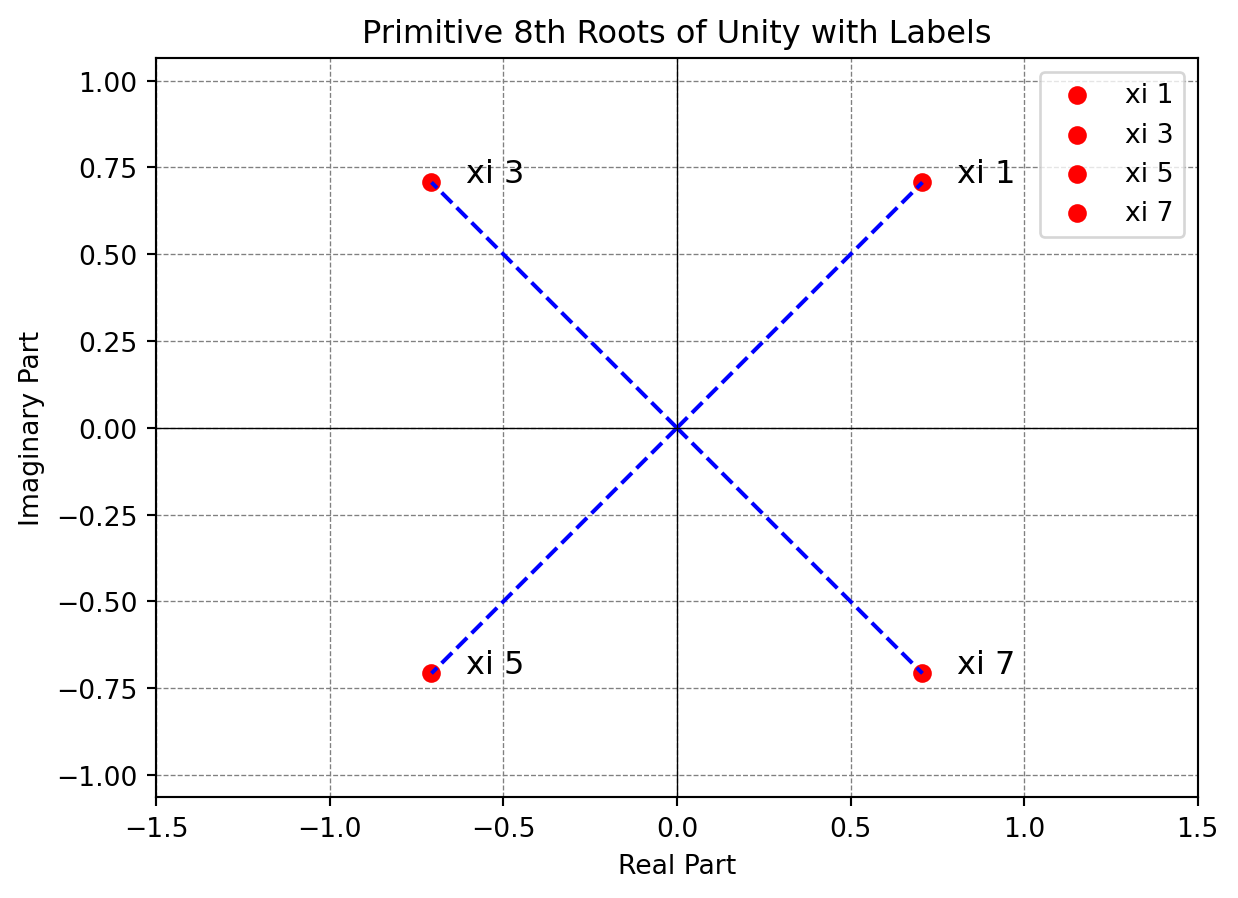
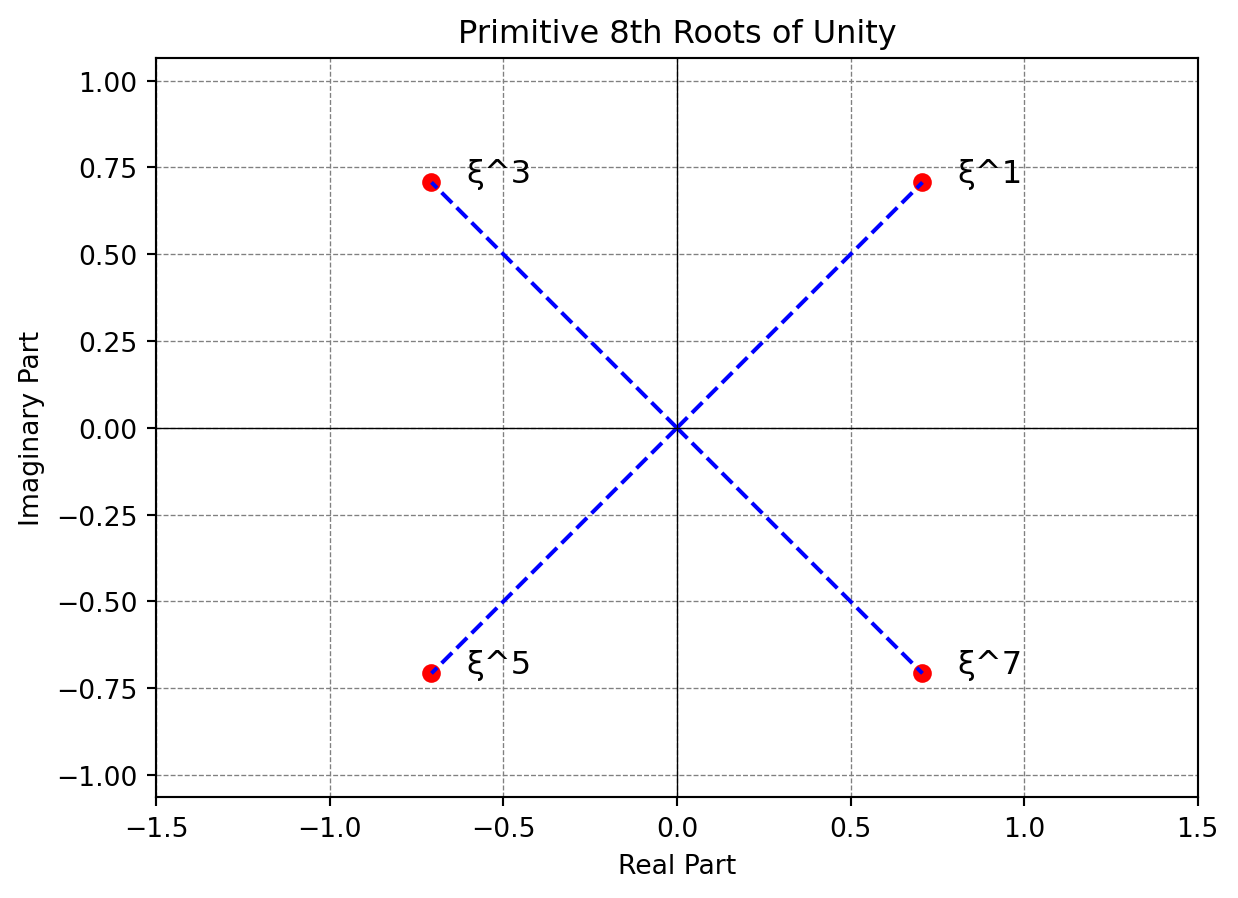
Added more to encoding

diff --git a/docs/posts/ckks/index.html b/docs/posts/ckks/index.html
@@ -194,11 +194,18 @@ pre > code.sourceCode > span > a:first-child::before { text-decoration: underlin
 <li><span class="math inline">\(\lfloor x \rceil\)</span> represents the rounding of the real number x to the closest integer</li>
 </ul>
 </section>
+<section id="parameters" class="level2">
+<h2 class="anchored" data-anchor-id="parameters">Parameters</h2>
+<p><span class="math inline">\(\Delta\)</span> is the scaling factor</p>
+</section>
 <section id="encoding" class="level2">
 <h2 class="anchored" data-anchor-id="encoding">Encoding</h2>
 <p>This scheme operates allows us to encode a vector, <span class="math inline">\(\mathbb{C}^{N/2}\)</span>, into the ciphertext space, <span class="math inline">\(\mathcal{R}_q = (\mathbb{Z}/q\mathbb{Z})[X]/(X^N +1)\)</span> using a ring isomorphism and cannoncial embedding map.</p>
-<p>A cyclotomic polynomial is a polynomial with integer coefficients whose roots are all primitive. An example would be the 4th cyclotomic polynomial or <span class="math inline">\(\phi_4(x) = x^2 + 1\)</span>. One important property of cyclotomic polynomials is that if N is a power of two, then the polynomial is equal to <span class="math inline">\(x^{N/2} + 1\)</span>. More information about these polynomials can be found here on <a href="https://en.wikipedia.org/wiki/Cyclotomic_polynomial">Wikipedia</a></p>
-<p>For any cyclotomic polynomial, <span class="math inline">\(a\)</span>, we can say that <span class="math inline">\(m(\xi^j) = m(\overline{\xi^{-j}})\)</span></p>
+<p>A cyclotomic polynomial is a polynomial with integer coefficients whose roots are all primitive. An example would be the 4th cyclotomic polynomial or <span class="math inline">\(\phi_4(x) = x^2 + 1\)</span>. One important property of cyclotomic polynomials is that if N is a power of two, then the polynomial is equal to <span class="math inline">\(x^{N/2} + 1\)</span>.</p>
+<!-- ADD MORE ABOUT WHY POWERS OF 2 ARE GOOD -->
+<p><a href="https://web.eecs.umich.edu/~cpeikert/pubs/toolkit.pdf">A Toolkit for Ring-LWE Cryptography</a></p>
+<p>More information about these polynomials can be found here on <a href="https://en.wikipedia.org/wiki/Cyclotomic_polynomial">Wikipedia</a></p>
+<p>For any cyclotomic polynomial, <span class="math inline">\(a\)</span>, we can say that <span class="math inline">\(a(\xi^j) = a(\overline{\xi^{-j}})\)</span></p>
 <div class="cell" data-execution_count="1">
 <details>
 <summary>Code</summary>
@@ -215,11 +222,10 @@ pre > code.sourceCode > span > a:first-child::before { text-decoration: underlin
 <span id="cb1-11"><a href="#cb1-11" aria-hidden="true" tabindex="-1"></a></span>
 <span id="cb1-12"><a href="#cb1-12" aria-hidden="true" tabindex="-1"></a>    <span class="cf">return</span> np.array(roots)</span>
 <span id="cb1-13"><a href="#cb1-13" aria-hidden="true" tabindex="-1"></a></span>
-<span id="cb1-14"><a href="#cb1-14" aria-hidden="true" tabindex="-1"></a><span class="co">#print()</span></span>
-<span id="cb1-15"><a href="#cb1-15" aria-hidden="true" tabindex="-1"></a>eigth_prim_roots <span class="op">=</span> primitive_nth_roots_of_unity(<span class="dv">8</span>)</span>
-<span id="cb1-16"><a href="#cb1-16" aria-hidden="true" tabindex="-1"></a></span>
-<span id="cb1-17"><a href="#cb1-17" aria-hidden="true" tabindex="-1"></a><span class="cf">for</span> i, r <span class="kw">in</span> <span class="bu">enumerate</span>(eigth_prim_roots):</span>
-<span id="cb1-18"><a href="#cb1-18" aria-hidden="true" tabindex="-1"></a>    <span class="bu">print</span>(<span class="ss">f"Root #</span><span class="sc">{</span>i<span class="op">+</span><span class="dv">1</span><span class="sc">}</span><span class="ss">: </span><span class="sc">{</span>r<span class="sc">}</span><span class="ch">\n</span><span class="ss">Conjugate: </span><span class="sc">{</span>np<span class="sc">.</span>conjugate(r)<span class="sc">}</span><span class="ch">\n</span><span class="ss">"</span>)</span></code><button title="Copy to Clipboard" class="code-copy-button"><i class="bi"></i></button></pre></div>
+<span id="cb1-14"><a href="#cb1-14" aria-hidden="true" tabindex="-1"></a>eigth_prim_roots <span class="op">=</span> primitive_nth_roots_of_unity(<span class="dv">8</span>)</span>
+<span id="cb1-15"><a href="#cb1-15" aria-hidden="true" tabindex="-1"></a></span>
+<span id="cb1-16"><a href="#cb1-16" aria-hidden="true" tabindex="-1"></a><span class="cf">for</span> i, r <span class="kw">in</span> <span class="bu">enumerate</span>(eigth_prim_roots):</span>
+<span id="cb1-17"><a href="#cb1-17" aria-hidden="true" tabindex="-1"></a>    <span class="bu">print</span>(<span class="ss">f"Root #</span><span class="sc">{</span>i<span class="op">+</span><span class="dv">1</span><span class="sc">}</span><span class="ss">: </span><span class="sc">{</span>r<span class="sc">}</span><span class="ch">\n</span><span class="ss">Conjugate: </span><span class="sc">{</span>np<span class="sc">.</span>conjugate(r)<span class="sc">}</span><span class="ch">\n</span><span class="ss">"</span>)</span></code><button title="Copy to Clipboard" class="code-copy-button"><i class="bi"></i></button></pre></div>
 </details>
 <div class="cell-output cell-output-stdout">
 <pre><code>Root #1: (0.7071067811865476+0.7071067811865475j)
@@ -243,58 +249,69 @@ Conjugate: (0.7071067811865474+0.7071067811865477j)
 <div class="sourceCode cell-code" id="cb3"><pre class="sourceCode python code-with-copy"><code class="sourceCode python"><span id="cb3-1"><a href="#cb3-1" aria-hidden="true" tabindex="-1"></a><span class="im">import</span> numpy <span class="im">as</span> np</span>
 <span id="cb3-2"><a href="#cb3-2" aria-hidden="true" tabindex="-1"></a><span class="im">import</span> matplotlib.pyplot <span class="im">as</span> plt</span>
 <span id="cb3-3"><a href="#cb3-3" aria-hidden="true" tabindex="-1"></a></span>
-<span id="cb3-4"><a href="#cb3-4" aria-hidden="true" tabindex="-1"></a><span class="co"># Number of primitive roots of unity</span></span>
-<span id="cb3-5"><a href="#cb3-5" aria-hidden="true" tabindex="-1"></a>n <span class="op">=</span> <span class="dv">8</span></span>
-<span id="cb3-6"><a href="#cb3-6" aria-hidden="true" tabindex="-1"></a></span>
-<span id="cb3-7"><a href="#cb3-7" aria-hidden="true" tabindex="-1"></a><span class="co"># Calculate the primitive 8th roots of unity</span></span>
-<span id="cb3-8"><a href="#cb3-8" aria-hidden="true" tabindex="-1"></a>roots <span class="op">=</span> [np.exp(<span class="ot">2j</span> <span class="op">*</span> np.pi <span class="op">*</span> k <span class="op">/</span> n) <span class="cf">for</span> k <span class="kw">in</span> <span class="bu">range</span>(n) <span class="cf">if</span> np.gcd(k, n) <span class="op">==</span> <span class="dv">1</span>]</span>
-<span id="cb3-9"><a href="#cb3-9" aria-hidden="true" tabindex="-1"></a></span>
-<span id="cb3-10"><a href="#cb3-10" aria-hidden="true" tabindex="-1"></a><span class="co"># Separate real and imaginary parts</span></span>
-<span id="cb3-11"><a href="#cb3-11" aria-hidden="true" tabindex="-1"></a>real_parts <span class="op">=</span> [root.real <span class="cf">for</span> root <span class="kw">in</span> roots]</span>
-<span id="cb3-12"><a href="#cb3-12" aria-hidden="true" tabindex="-1"></a>imaginary_parts <span class="op">=</span> [root.imag <span class="cf">for</span> root <span class="kw">in</span> roots]</span>
-<span id="cb3-13"><a href="#cb3-13" aria-hidden="true" tabindex="-1"></a></span>
-<span id="cb3-14"><a href="#cb3-14" aria-hidden="true" tabindex="-1"></a><span class="co"># Define labels for the roots</span></span>
-<span id="cb3-15"><a href="#cb3-15" aria-hidden="true" tabindex="-1"></a>labels <span class="op">=</span> [<span class="st">'xi 1'</span>, <span class="st">'xi 3'</span>, <span class="st">'xi 5'</span>, <span class="st">'xi 7'</span>]</span>
+<span id="cb3-4"><a href="#cb3-4" aria-hidden="true" tabindex="-1"></a>n <span class="op">=</span> <span class="dv">8</span></span>
+<span id="cb3-5"><a href="#cb3-5" aria-hidden="true" tabindex="-1"></a></span>
+<span id="cb3-6"><a href="#cb3-6" aria-hidden="true" tabindex="-1"></a>roots <span class="op">=</span> [np.exp(<span class="ot">2j</span> <span class="op">*</span> np.pi <span class="op">*</span> k <span class="op">/</span> n) <span class="cf">for</span> k <span class="kw">in</span> <span class="bu">range</span>(n) <span class="cf">if</span> np.gcd(k, n) <span class="op">==</span> <span class="dv">1</span>]</span>
+<span id="cb3-7"><a href="#cb3-7" aria-hidden="true" tabindex="-1"></a></span>
+<span id="cb3-8"><a href="#cb3-8" aria-hidden="true" tabindex="-1"></a>real_parts <span class="op">=</span> [root.real <span class="cf">for</span> root <span class="kw">in</span> roots]</span>
+<span id="cb3-9"><a href="#cb3-9" aria-hidden="true" tabindex="-1"></a>imaginary_parts <span class="op">=</span> [root.imag <span class="cf">for</span> root <span class="kw">in</span> roots]</span>
+<span id="cb3-10"><a href="#cb3-10" aria-hidden="true" tabindex="-1"></a></span>
+<span id="cb3-11"><a href="#cb3-11" aria-hidden="true" tabindex="-1"></a>labels <span class="op">=</span> [<span class="st">'ξ^1'</span>, <span class="st">'ξ^3'</span>, <span class="st">'ξ^5'</span>, <span class="st">'ξ^7'</span>]</span>
+<span id="cb3-12"><a href="#cb3-12" aria-hidden="true" tabindex="-1"></a></span>
+<span id="cb3-13"><a href="#cb3-13" aria-hidden="true" tabindex="-1"></a><span class="cf">for</span> i, (x, y) <span class="kw">in</span> <span class="bu">enumerate</span>(<span class="bu">zip</span>(real_parts, imaginary_parts)):</span>
+<span id="cb3-14"><a href="#cb3-14" aria-hidden="true" tabindex="-1"></a>    plt.scatter(x, y, color<span class="op">=</span><span class="st">'red'</span>, label<span class="op">=</span>labels[i])</span>
+<span id="cb3-15"><a href="#cb3-15" aria-hidden="true" tabindex="-1"></a>    plt.text(x <span class="op">+</span> <span class="fl">0.1</span>, y, labels[i], fontsize<span class="op">=</span><span class="dv">12</span>)</span>
 <span id="cb3-16"><a href="#cb3-16" aria-hidden="true" tabindex="-1"></a></span>
-<span id="cb3-17"><a href="#cb3-17" aria-hidden="true" tabindex="-1"></a><span class="co"># Create a scatter plot with labels</span></span>
-<span id="cb3-18"><a href="#cb3-18" aria-hidden="true" tabindex="-1"></a><span class="cf">for</span> i, (x, y) <span class="kw">in</span> <span class="bu">enumerate</span>(<span class="bu">zip</span>(real_parts, imaginary_parts)):</span>
-<span id="cb3-19"><a href="#cb3-19" aria-hidden="true" tabindex="-1"></a>    plt.scatter(x, y, color<span class="op">=</span><span class="st">'red'</span>, label<span class="op">=</span>labels[i])</span>
-<span id="cb3-20"><a href="#cb3-20" aria-hidden="true" tabindex="-1"></a>    plt.text(x <span class="op">+</span> <span class="fl">0.1</span>, y, labels[i], fontsize<span class="op">=</span><span class="dv">12</span>)</span>
-<span id="cb3-21"><a href="#cb3-21" aria-hidden="true" tabindex="-1"></a></span>
-<span id="cb3-22"><a href="#cb3-22" aria-hidden="true" tabindex="-1"></a><span class="co"># Add lines from the origin to each point</span></span>
-<span id="cb3-23"><a href="#cb3-23" aria-hidden="true" tabindex="-1"></a><span class="cf">for</span> root <span class="kw">in</span> roots:</span>
-<span id="cb3-24"><a href="#cb3-24" aria-hidden="true" tabindex="-1"></a>    plt.plot([<span class="dv">0</span>, root.real], [<span class="dv">0</span>, root.imag], linestyle<span class="op">=</span><span class="st">'--'</span>, color<span class="op">=</span><span class="st">'blue'</span>)</span>
+<span id="cb3-17"><a href="#cb3-17" aria-hidden="true" tabindex="-1"></a><span class="cf">for</span> root <span class="kw">in</span> roots:</span>
+<span id="cb3-18"><a href="#cb3-18" aria-hidden="true" tabindex="-1"></a>    plt.plot([<span class="dv">0</span>, root.real], [<span class="dv">0</span>, root.imag], linestyle<span class="op">=</span><span class="st">'--'</span>, color<span class="op">=</span><span class="st">'blue'</span>)</span>
+<span id="cb3-19"><a href="#cb3-19" aria-hidden="true" tabindex="-1"></a></span>
+<span id="cb3-20"><a href="#cb3-20" aria-hidden="true" tabindex="-1"></a>plt.xlabel(<span class="st">'Real Part'</span>)</span>
+<span id="cb3-21"><a href="#cb3-21" aria-hidden="true" tabindex="-1"></a>plt.ylabel(<span class="st">'Imaginary Part'</span>)</span>
+<span id="cb3-22"><a href="#cb3-22" aria-hidden="true" tabindex="-1"></a>plt.axhline(<span class="dv">0</span>, color<span class="op">=</span><span class="st">'black'</span>, linewidth<span class="op">=</span><span class="fl">0.5</span>)</span>
+<span id="cb3-23"><a href="#cb3-23" aria-hidden="true" tabindex="-1"></a>plt.axvline(<span class="dv">0</span>, color<span class="op">=</span><span class="st">'black'</span>, linewidth<span class="op">=</span><span class="fl">0.5</span>)</span>
+<span id="cb3-24"><a href="#cb3-24" aria-hidden="true" tabindex="-1"></a>plt.grid(color<span class="op">=</span><span class="st">'gray'</span>, linestyle<span class="op">=</span><span class="st">'--'</span>, linewidth<span class="op">=</span><span class="fl">0.5</span>)</span>
 <span id="cb3-25"><a href="#cb3-25" aria-hidden="true" tabindex="-1"></a></span>
-<span id="cb3-26"><a href="#cb3-26" aria-hidden="true" tabindex="-1"></a><span class="co"># Add labels and a legend</span></span>
-<span id="cb3-27"><a href="#cb3-27" aria-hidden="true" tabindex="-1"></a>plt.xlabel(<span class="st">'Real Part'</span>)</span>
-<span id="cb3-28"><a href="#cb3-28" aria-hidden="true" tabindex="-1"></a>plt.ylabel(<span class="st">'Imaginary Part'</span>)</span>
-<span id="cb3-29"><a href="#cb3-29" aria-hidden="true" tabindex="-1"></a>plt.axhline(<span class="dv">0</span>, color<span class="op">=</span><span class="st">'black'</span>, linewidth<span class="op">=</span><span class="fl">0.5</span>)</span>
-<span id="cb3-30"><a href="#cb3-30" aria-hidden="true" tabindex="-1"></a>plt.axvline(<span class="dv">0</span>, color<span class="op">=</span><span class="st">'black'</span>, linewidth<span class="op">=</span><span class="fl">0.5</span>)</span>
-<span id="cb3-31"><a href="#cb3-31" aria-hidden="true" tabindex="-1"></a>plt.grid(color<span class="op">=</span><span class="st">'gray'</span>, linestyle<span class="op">=</span><span class="st">'--'</span>, linewidth<span class="op">=</span><span class="fl">0.5</span>)</span>
-<span id="cb3-32"><a href="#cb3-32" aria-hidden="true" tabindex="-1"></a>plt.legend()</span>
-<span id="cb3-33"><a href="#cb3-33" aria-hidden="true" tabindex="-1"></a></span>
-<span id="cb3-34"><a href="#cb3-34" aria-hidden="true" tabindex="-1"></a><span class="co"># Set the aspect ratio to be equal</span></span>
-<span id="cb3-35"><a href="#cb3-35" aria-hidden="true" tabindex="-1"></a>plt.axis(<span class="st">'equal'</span>)</span>
-<span id="cb3-36"><a href="#cb3-36" aria-hidden="true" tabindex="-1"></a></span>
-<span id="cb3-37"><a href="#cb3-37" aria-hidden="true" tabindex="-1"></a><span class="co"># Set plot limits</span></span>
-<span id="cb3-38"><a href="#cb3-38" aria-hidden="true" tabindex="-1"></a>plt.xlim(<span class="op">-</span><span class="fl">1.5</span>, <span class="fl">1.5</span>)</span>
-<span id="cb3-39"><a href="#cb3-39" aria-hidden="true" tabindex="-1"></a>plt.ylim(<span class="op">-</span><span class="fl">1.5</span>, <span class="fl">1.5</span>)</span>
-<span id="cb3-40"><a href="#cb3-40" aria-hidden="true" tabindex="-1"></a></span>
-<span id="cb3-41"><a href="#cb3-41" aria-hidden="true" tabindex="-1"></a><span class="co"># Title</span></span>
-<span id="cb3-42"><a href="#cb3-42" aria-hidden="true" tabindex="-1"></a>plt.title(<span class="ss">f'Primitive 8th Roots of Unity with Labels'</span>)</span>
-<span id="cb3-43"><a href="#cb3-43" aria-hidden="true" tabindex="-1"></a></span>
-<span id="cb3-44"><a href="#cb3-44" aria-hidden="true" tabindex="-1"></a><span class="co"># Show the plot</span></span>
-<span id="cb3-45"><a href="#cb3-45" aria-hidden="true" tabindex="-1"></a>plt.show()</span></code><button title="Copy to Clipboard" class="code-copy-button"><i class="bi"></i></button></pre></div>
+<span id="cb3-26"><a href="#cb3-26" aria-hidden="true" tabindex="-1"></a>plt.axis(<span class="st">'equal'</span>)</span>
+<span id="cb3-27"><a href="#cb3-27" aria-hidden="true" tabindex="-1"></a></span>
+<span id="cb3-28"><a href="#cb3-28" aria-hidden="true" tabindex="-1"></a>plt.xlim(<span class="op">-</span><span class="fl">1.5</span>, <span class="fl">1.5</span>)</span>
+<span id="cb3-29"><a href="#cb3-29" aria-hidden="true" tabindex="-1"></a>plt.ylim(<span class="op">-</span><span class="fl">1.5</span>, <span class="fl">1.5</span>)</span>
+<span id="cb3-30"><a href="#cb3-30" aria-hidden="true" tabindex="-1"></a></span>
+<span id="cb3-31"><a href="#cb3-31" aria-hidden="true" tabindex="-1"></a>plt.title(<span class="ss">f'Primitive 8th Roots of Unity'</span>)</span>
+<span id="cb3-32"><a href="#cb3-32" aria-hidden="true" tabindex="-1"></a></span>
+<span id="cb3-33"><a href="#cb3-33" aria-hidden="true" tabindex="-1"></a>plt.show()</span></code><button title="Copy to Clipboard" class="code-copy-button"><i class="bi"></i></button></pre></div>
 </details>
 <div class="cell-output cell-output-display">
 <p><img src="index_files/figure-html/cell-3-output-1.png" width="619" height="449"></p>
 </div>
 </div>
 <p>This makes intuitive sense if we look at a graph of the roots and see that primitive roots of unity are always symmetric over the x axis.</p>
-<p>The subring <span class="math inline">\(\mathbb{H}\)</span> of <span class="math inline">\(\mathbb{C}^N\)</span> is defined as</p>
+<p><span class="math inline">\(\mathbb{H}\)</span> of is a subring of <span class="math inline">\(\mathbb{C}^N\)</span> that contains elements of <span class="math inline">\(\mathbb{C}^N\)</span> where the conjugate is also in the subring.</p>
+<p>We define an operation <span class="math inline">\(\pi^{-1}\)</span> which expands a vector <span class="math inline">\(\mathbb{C}^{N/2}\)</span> into <span class="math inline">\(\mathbb{H}\)</span></p>
+<div class="cell" data-execution_count="3">
+<div class="sourceCode cell-code" id="cb4"><pre class="sourceCode python code-with-copy"><code class="sourceCode python"><span id="cb4-1"><a href="#cb4-1" aria-hidden="true" tabindex="-1"></a><span class="kw">def</span> pi_inverse(z: np.ndarray) <span class="op">-&gt;</span> np.ndarray:</span>
+<span id="cb4-2"><a href="#cb4-2" aria-hidden="true" tabindex="-1"></a>    <span class="cf">return</span> np.concatenate([z, [np.conjugate(x) <span class="cf">for</span> x <span class="kw">in</span> z[::<span class="op">-</span><span class="dv">1</span>]]])</span>
+<span id="cb4-3"><a href="#cb4-3" aria-hidden="true" tabindex="-1"></a></span>
+<span id="cb4-4"><a href="#cb4-4" aria-hidden="true" tabindex="-1"></a>z <span class="op">=</span> np.array([<span class="dv">3</span><span class="op">+</span><span class="ot">4j</span>,<span class="dv">2</span><span class="op">-</span><span class="ot">1j</span>])</span>
+<span id="cb4-5"><a href="#cb4-5" aria-hidden="true" tabindex="-1"></a></span>
+<span id="cb4-6"><a href="#cb4-6" aria-hidden="true" tabindex="-1"></a><span class="cf">for</span> i <span class="kw">in</span> <span class="bu">range</span>(<span class="bu">len</span>(z)):</span>
+<span id="cb4-7"><a href="#cb4-7" aria-hidden="true" tabindex="-1"></a>    <span class="bu">print</span>(<span class="ss">f"i: </span><span class="sc">{</span>i<span class="sc">}</span><span class="ss">, </span><span class="sc">{</span>z[i]<span class="sc">}</span><span class="ss"> = i: </span><span class="sc">{</span>(<span class="op">-</span>i<span class="op">-</span><span class="dv">1</span>) <span class="op">%</span> <span class="dv">4</span><span class="sc">}</span><span class="ss">, </span><span class="sc">{</span>np<span class="sc">.</span>conjugate(z[<span class="op">-</span>i])<span class="sc">}</span><span class="ss">"</span>)</span>
+<span id="cb4-8"><a href="#cb4-8" aria-hidden="true" tabindex="-1"></a></span>
+<span id="cb4-9"><a href="#cb4-9" aria-hidden="true" tabindex="-1"></a><span class="bu">print</span>()</span>
+<span id="cb4-10"><a href="#cb4-10" aria-hidden="true" tabindex="-1"></a><span class="bu">print</span>(<span class="bu">list</span>(pi_inverse(z)))</span></code><button title="Copy to Clipboard" class="code-copy-button"><i class="bi"></i></button></pre></div>
+<div class="cell-output cell-output-stdout">
+<pre><code>i: 0, (3+4j) = i: 3, (3-4j)
+i: 1, (2-1j) = i: 2, (2+1j)
+
+[(3+4j), (2-1j), (2+1j), (3-4j)]</code></pre>
+</div>
+</div>
 <p><span class="math inline">\(\sigma(x)\)</span> is equivalent to the evaluation of a polynomial on the roots of unity for the given cyclotomic polynomial which will produce an element in <span class="math inline">\(\mathbb{C}^N\)</span>.</p>
+<p>Imagine <span class="math inline">\(\Delta\)</span> is 10,000. We can say that <span class="math inline">\(\frac{(\Delta * m + \Delta * n)}{\Delta} = m + n\)</span>. For example let <span class="math inline">\(m = 3.14\)</span> and <span class="math inline">\(n = 2.72\)</span>. We expect the result to equal 5.86.</p>
 <ol type="1">
-<li>We define an operation <span class="math inline">\(\pi^{-1}\)</span> which</li>
+<li>Multiply <span class="math inline">\(m\)</span> by <span class="math inline">\(\Delta\)</span>, <span class="math inline">\(\Delta * m = 31,400\)</span></li>
+<li>Multiply <span class="math inline">\(n\)</span> by <span class="math inline">\(\Delta\)</span>, <span class="math inline">\(\Delta * n = 27,200\)</span></li>
+<li>Add <span class="math inline">\(\Delta m + \Delta n = 58,600\)</span></li>
+<li>Divide result by <span class="math inline">\(\Delta\)</span>, <span class="math inline">\(58,600 / \Delta = 5.86\)</span></li>
 </ol>
 </section>
 <section id="decoding" class="level2">

diff --git a/docs/index.html b/docs/index.html
@@ -153,7 +153,7 @@ ul.task-list li input[type="checkbox"] {
 
 <div class="quarto-listing quarto-listing-container-default" id="listing-listing">
 <div class="list quarto-listing-default">
-<div class="quarto-post image-right" data-index="0" data-categories="cryptography" data-listing-date-sort="1694674800000" data-listing-file-modified-sort="1694806711574" data-listing-date-modified-sort="NaN" data-listing-reading-time-sort="3">
+<div class="quarto-post image-right" data-index="0" data-categories="cryptography" data-listing-date-sort="1694674800000" data-listing-file-modified-sort="1694824775028" data-listing-date-modified-sort="NaN" data-listing-reading-time-sort="4">
 <div class="thumbnail">
 <p><a href="./posts/ckks/index.html"> <p class="card-img-top"><img src="posts/ckks/index_files/figure-html/cell-3-output-1.png"  class="thumbnail-image card-img"/></p> </a></p>
 </div>
